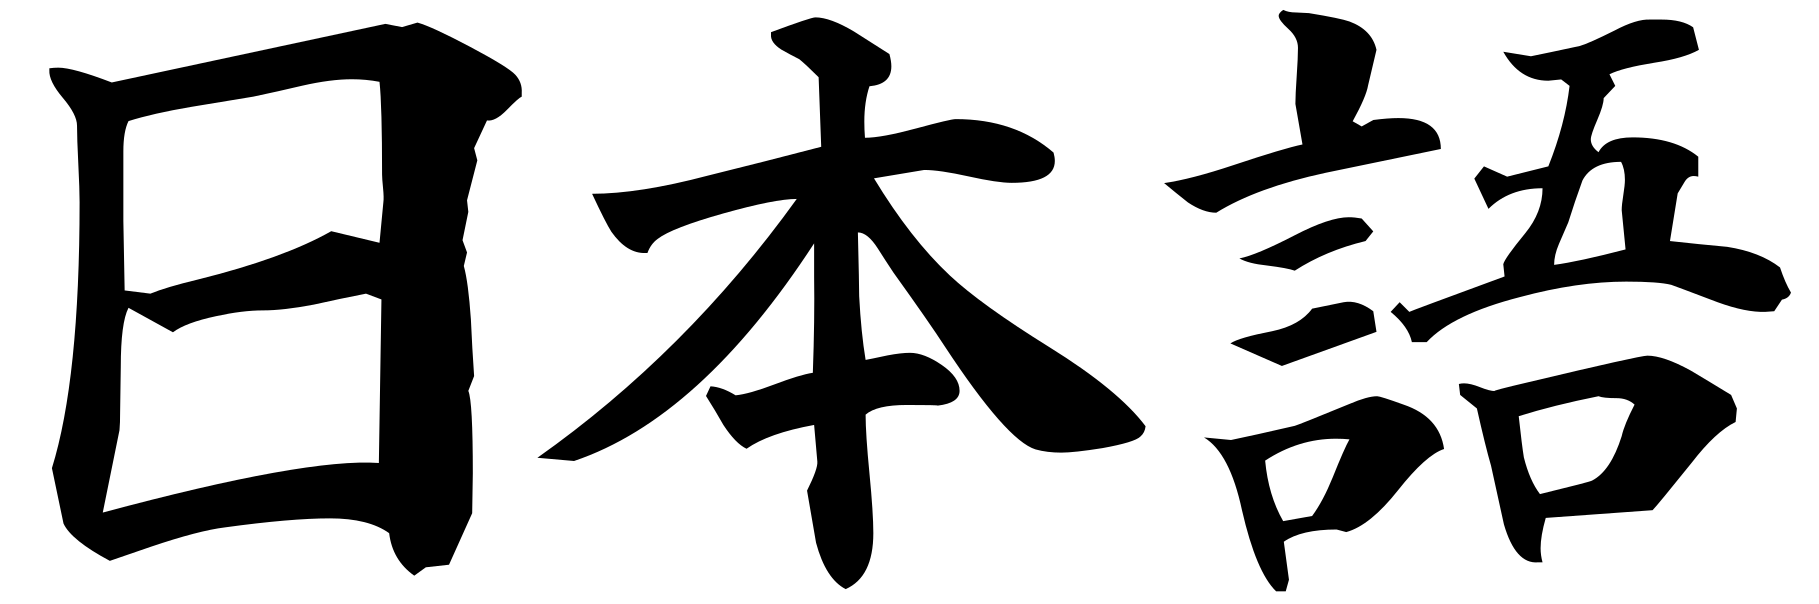
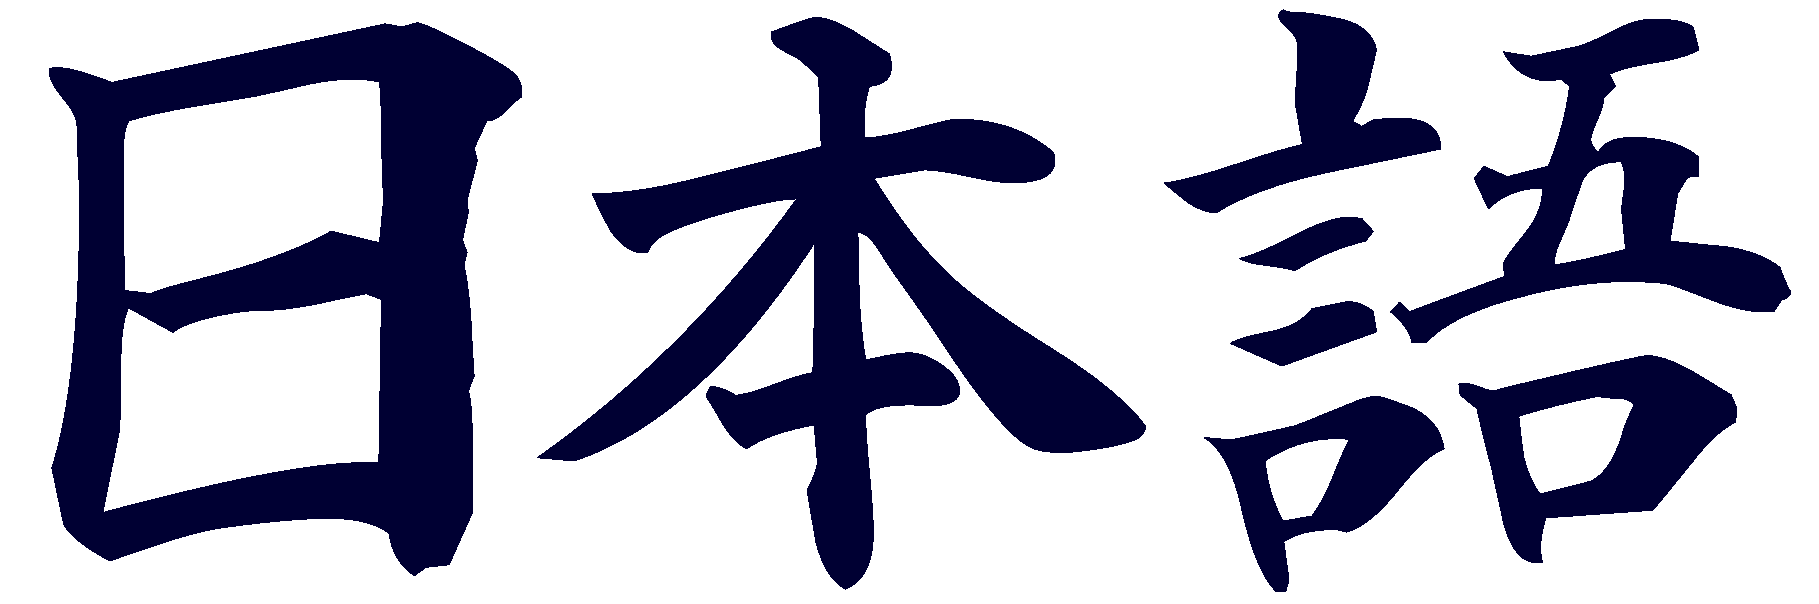
change Nihongo img and intro paragraph font color

diff --git a/course/course-luo.html b/course/course-luo.html
@@ -7,7 +7,9 @@
 	<link rel="stylesheet" type="text/css" href="./css/Ourstyle.css">
 	<style type="text/css">
 	.wikiref{
+	color: #000033;
 	font-size: 1.4em;
+	font-weight: bold;
 	float: right;
 	}
 
@@ -97,7 +99,7 @@
                 It is a member of the Japonic (or Japanese-Ryukyuan) language family, whose relation to other language groups, particularly to Korean and the suggested Altaic language family, is debated but mostly seen as discredited. 
                 </p>
 
-                <p class="largep">UIC is currently having three Japanese courses for students of different language levels, including Japanese I, Japanese II and Japanese III.</p>
+                <p class="largep" class="firstp">UIC is currently having three Japanese courses for students of different language levels, including Japanese I, Japanese II and Japanese III.</p>
                 <p class="largep">In the Japanese I, the course I am attending in, we are expected to have a basic understanding of the Japanese culture, and have a grisp of the foundamental knowledge in its language.</p>
 
                
